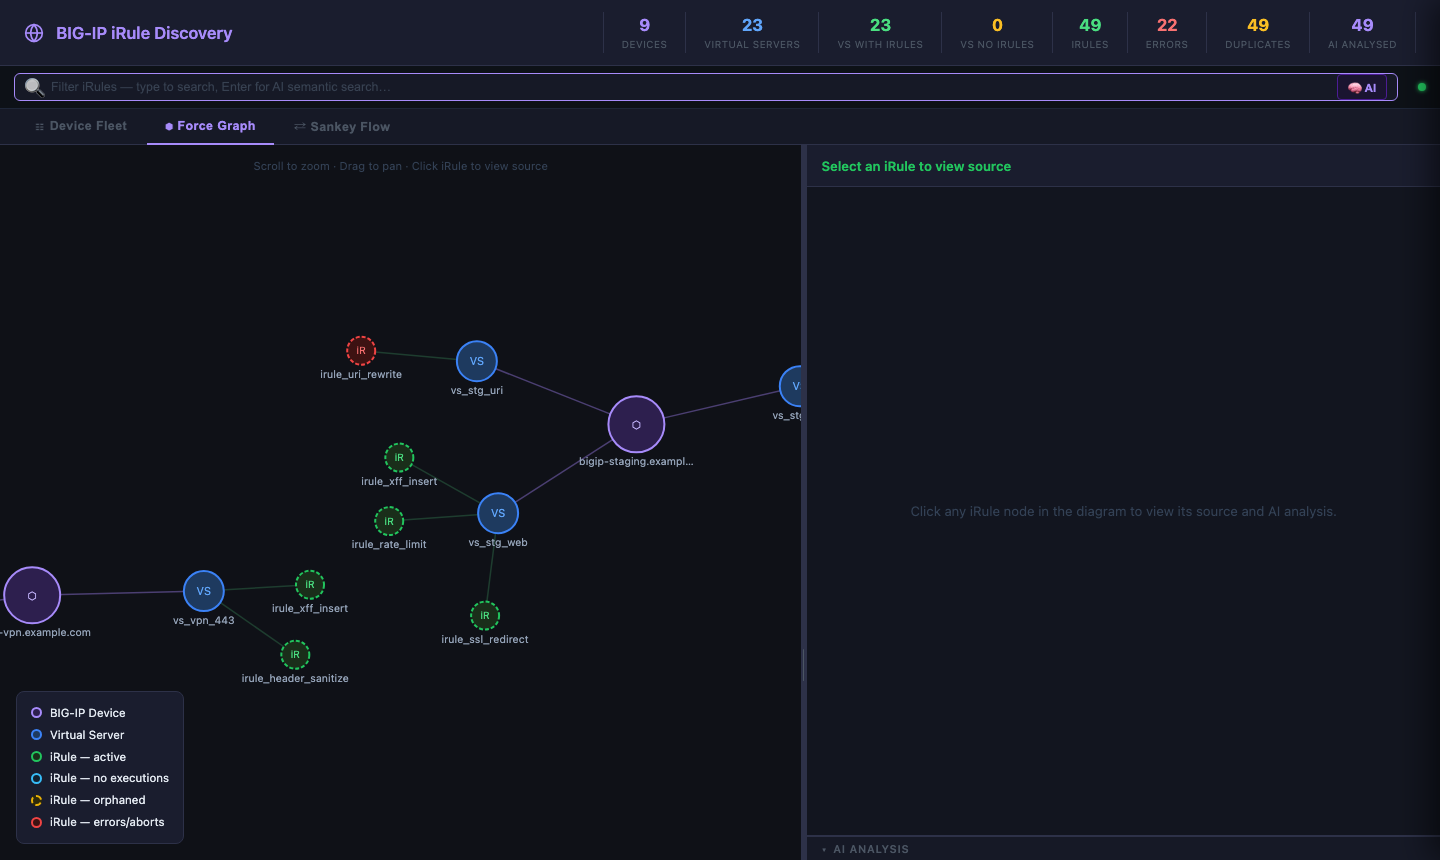
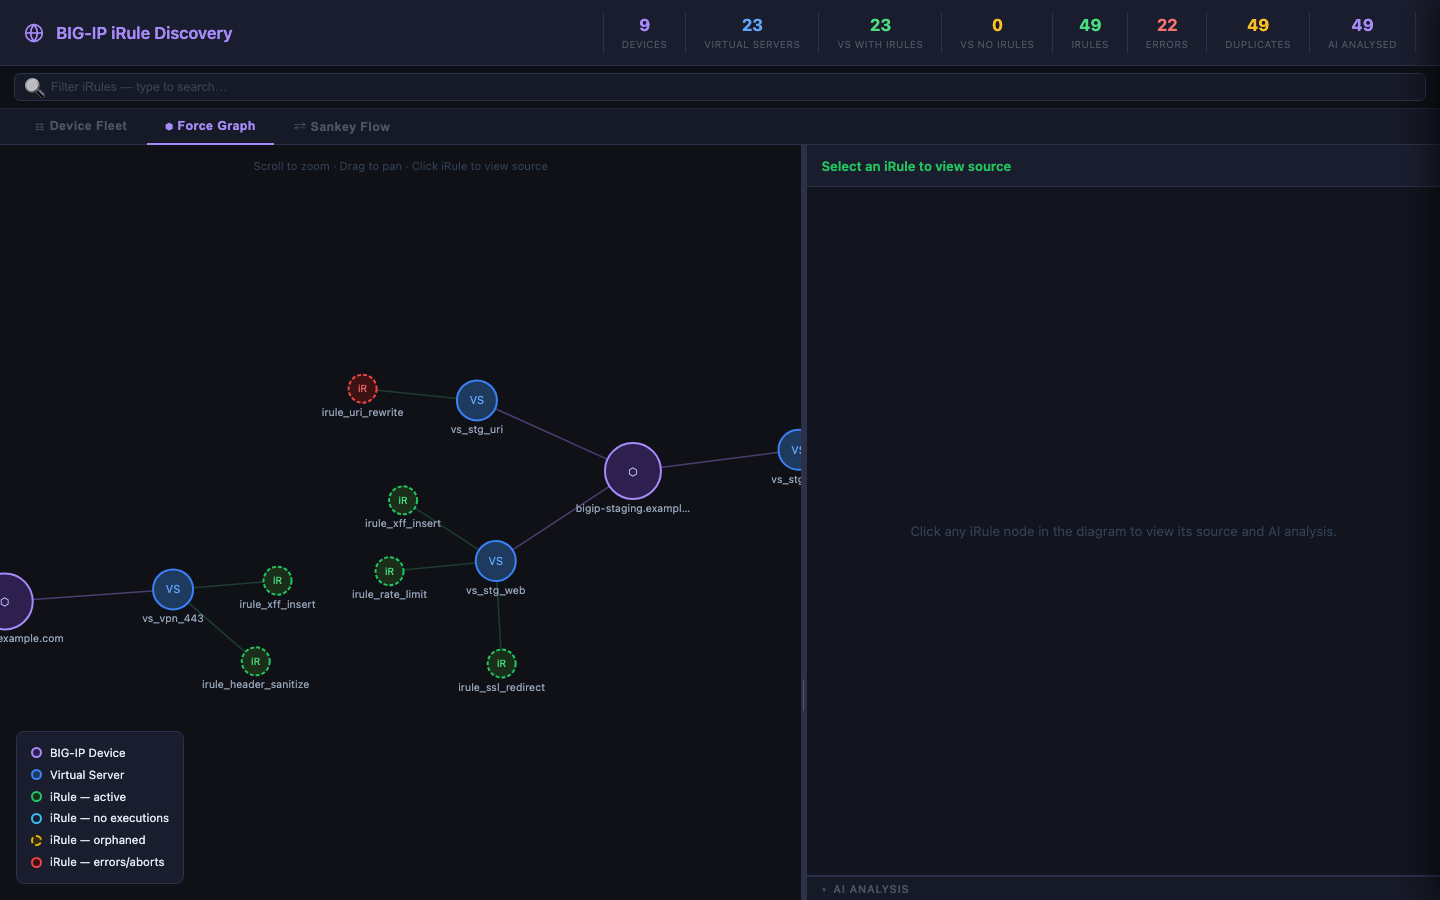
feat: multi-provider AI, SNow demo seeding, README + screenshots refresh
AI analysis
- Add Anthropic and OpenAI backends (_analyze_with_anthropic, _analyze_with_openai)
- Add _XC_ANALYSIS_PROMPT (plain-question for XC RAG) separate from
  _ANALYSIS_PROMPT (structured markdown for Anthropic/OpenAI)
- Reduce _XC_AI_RATE_LIMIT 20->5s; CLI --rate-limit default 20->5
- Add --ai-provider / --ai-model / --ai-key CLI flags
- Wire AI re-analysis into --rebuild-html path

Viewer
- Remove Ollama/RAG UI elements (AI button, Ollama dot, semantic search)
- Search bar retains fast text/stem filter across all three views
- AI label shows 'AI Assistant' when provider/model are None (demo)

Demo generator
- Add SERVICENOW_REFS with synthetic ticket data matching iRule comments
- Seed servicenow_refs table before build_html (SNow flyout works OOTB)
- Clear ai_cache on each demo run so real-provider results don't pollute
- provider/model set to None in demo ai_analysis entries

Bug fixes
- Replace all datetime.utcnow() with timezone-aware equivalent (Py 3.12)

README + screenshots
- All 10 docs/screenshot_*.png regenerated from current viewer build
- No AI button, no Ollama dot, AI label shows 'AI Assistant' (demo)
- README reflects multi-provider AI, simplified install, SNow demo seeding
- Local RAG section expanded with three real CVE query examples

diff --git a/take_screenshots.py b/take_screenshots.py
@@ -1,0 +1,160 @@
+#!/usr/bin/env python3
+"""
+Regenerate docs/screenshot_*.png from the current demo viewer.
+Requires: pip install playwright && python3 -m playwright install chromium
+
+Run from repo root:
+    python3 generate_demo.py
+    python3 take_screenshots.py
+"""
+import asyncio
+from pathlib import Path
+
+from playwright.async_api import async_playwright
+
+VIEWER = (Path(__file__).parent / "irule_output" / "irule_viewer.html").resolve().as_uri()
+DOCS   = Path(__file__).parent / "docs"
+DOCS.mkdir(exist_ok=True)
+
+W, H = 1440, 900
+
+
+async def shot(page, name: str):
+    path = str(DOCS / f"screenshot_{name}.png")
+    await page.screenshot(path=path, full_page=False)
+    print(f"  saved → {path}")
+
+
+async def js_click(page, selector: str):
+    """Click via JS so viewport position doesn't matter (works on SVG nodes)."""
+    await page.evaluate(f"""
+        (() => {{
+            const el = document.querySelector('{selector}');
+            if (el) el.dispatchEvent(new MouseEvent('click', {{bubbles: true, cancelable: true}}));
+        }})()
+    """)
+
+
+async def main():
+    async with async_playwright() as pw:
+        browser = await pw.chromium.launch(headless=True)
+        ctx     = await browser.new_context(viewport={"width": W, "height": H})
+        page    = await ctx.new_page()
+
+        print(f"Loading viewer …")
+        await page.goto(VIEWER, wait_until="networkidle")
+        await asyncio.sleep(2)
+
+        # ── 1. Device Fleet ───────────────────────────────────────────────────
+        print("1. fleet")
+        await shot(page, "fleet")
+
+        # ── 2. Fleet filtered ─────────────────────────────────────────────────
+        print("2. fleet_filtered")
+        search = page.locator("#search-input")
+        await search.fill("rate")
+        await asyncio.sleep(0.8)
+        await shot(page, "fleet_filtered")
+        await search.fill("")
+        await asyncio.sleep(0.4)
+
+        # ── 3. Force Graph ────────────────────────────────────────────────────
+        print("3. force_graph  (waiting 5s for sim to settle)")
+        await page.locator("#tab-force").click()
+        await asyncio.sleep(5)   # let D3 sim cool down
+        await shot(page, "force_graph")
+
+        # ── 4. Force Graph — device selected (JS click, bypasses viewport) ────
+        print("4. force_selected")
+        await js_click(page, ".node.device circle")
+        await asyncio.sleep(0.8)
+        await shot(page, "force_selected")
+        # Deselect by clicking the SVG background
+        await js_click(page, "svg#svg")
+        await asyncio.sleep(0.3)
+
+        # ── 5. Force Graph — text filter ──────────────────────────────────────
+        print("5. force_filtered")
+        await search.fill("jwt")
+        await asyncio.sleep(0.8)
+        await shot(page, "force_filtered")
+        await search.fill("")
+        await asyncio.sleep(0.4)
+
+        # ── 6. iRule source + AI analysis ─────────────────────────────────────
+        print("6. ai_analysis")
+        # JS-click every iRule node until the AI divider appears with real content
+        irule_count = await page.locator(".node.irule circle").count()
+        for i in range(irule_count):
+            await page.evaluate(f"""
+                (() => {{
+                    const nodes = document.querySelectorAll('.node.irule circle');
+                    if (nodes[{i}]) nodes[{i}].dispatchEvent(
+                        new MouseEvent('click', {{bubbles: true, cancelable: true}}));
+                }})()
+            """)
+            await asyncio.sleep(0.5)
+
+            ai_div = page.locator("#ai-divider")
+            if not await ai_div.is_visible():
+                continue
+
+            label = await page.locator("#ai-label").inner_text()
+            if "No analysis" in label:
+                continue
+
+            # Ensure AI pane is expanded and tall enough to show content
+            await page.evaluate("""
+                const d = document.getElementById('ai-divider');
+                const p = document.getElementById('ai-pane');
+                if (d && d.classList.contains('collapsed')) d.click();
+                if (p) { p.style.flex = 'none'; p.style.height = '310px'; p.style.display = 'block'; }
+            """)
+            await asyncio.sleep(0.3)
+            await shot(page, "ai_analysis")
+            print(f"     label: {label}")
+            break
+
+        # ── 7. ServiceNow flyout ──────────────────────────────────────────────
+        print("7. snow_cve / snow_panel")
+        snow_div = page.locator("#snow-section-divider")
+        found_snow = False
+        for i in range(irule_count):
+            await page.evaluate(f"""
+                (() => {{
+                    const nodes = document.querySelectorAll('.node.irule circle');
+                    if (nodes[{i}]) nodes[{i}].dispatchEvent(
+                        new MouseEvent('click', {{bubbles: true, cancelable: true}}));
+                }})()
+            """)
+            await asyncio.sleep(0.5)
+            if await snow_div.is_visible():
+                await snow_div.click()
+                await asyncio.sleep(0.7)
+                await shot(page, "snow_cve")
+                await shot(page, "snow_panel")
+                await page.locator("#snow-flyout-close").click()
+                await asyncio.sleep(0.3)
+                found_snow = True
+                break
+        if not found_snow:
+            print("  (no SNow iRule visible in force graph — skipping)")
+
+        # ── 8. Sankey ─────────────────────────────────────────────────────────
+        print("8. sankey")
+        await page.locator("#tab-sankey").click()
+        await asyncio.sleep(2)
+        await shot(page, "sankey")
+
+        # ── 9. Sankey filtered ────────────────────────────────────────────────
+        print("9. sankey_filtered")
+        await search.fill("geo")
+        await asyncio.sleep(0.8)
+        await shot(page, "sankey_filtered")
+        await search.fill("")
+
+        await browser.close()
+        print("\nDone — all screenshots saved to docs/")
+
+
+asyncio.run(main())

diff --git a/retake_ai_screenshot.py b/retake_ai_screenshot.py
@@ -1,0 +1,83 @@
+#!/usr/bin/env python3
+"""
+Retake only the ai_analysis screenshot with cache disabled.
+Run from repo root: python3 retake_ai_screenshot.py
+"""
+import asyncio
+from pathlib import Path
+
+from playwright.async_api import async_playwright
+
+VIEWER = (Path(__file__).parent / "irule_output" / "irule_viewer.html").resolve().as_uri()
+DOCS   = Path(__file__).parent / "docs"
+
+
+async def main():
+    async with async_playwright() as pw:
+        browser = await pw.chromium.launch(headless=True, args=["--disable-application-cache", "--disable-cache"])
+        # Fresh user-data-dir every run so nothing is cached
+        ctx = await browser.new_context(
+            viewport={"width": 1440, "height": 900},
+            bypass_csp=True,
+        )
+        await ctx.route("**/*", lambda route: route.continue_())
+
+        page = await ctx.new_page()
+
+        # Force reload with cache disabled
+        await page.set_extra_http_headers({"Cache-Control": "no-cache, no-store"})
+
+        print(f"Loading viewer (cache disabled) …")
+        await page.goto(VIEWER, wait_until="networkidle")
+        await asyncio.sleep(2)
+
+        # Verify we have the new UI (no AI button)
+        ai_btn_visible = await page.locator("#search-ai-btn").is_visible() if await page.locator("#search-ai-btn").count() > 0 else False
+        print(f"  Old AI button present: {ai_btn_visible}  (should be False)")
+
+        # Switch to Force Graph
+        await page.click("#tab-force")
+        await asyncio.sleep(4)
+
+        # Walk iRule nodes for one with real AI content
+        irule_nodes = page.locator(".node.irule circle")
+        n = await irule_nodes.count()
+        print(f"  Found {n} iRule nodes")
+
+        for i in range(n):
+            await irule_nodes.nth(i).click()
+            await asyncio.sleep(0.5)
+
+            ai_div = page.locator("#ai-divider")
+            if not await ai_div.is_visible():
+                continue
+
+            cls = await ai_div.get_attribute("class") or ""
+            if "collapsed" in cls:
+                await ai_div.click()
+                await asyncio.sleep(0.3)
+
+            label_text = await page.locator("#ai-label").inner_text()
+            if "No analysis" in label_text:
+                continue
+
+            # Expand AI pane to 320px so content is visible
+            await page.evaluate("""
+                const pane = document.getElementById('ai-pane');
+                pane.style.flex = 'none';
+                pane.style.height = '320px';
+                pane.style.display = 'block';
+            """)
+            await asyncio.sleep(0.3)
+
+            path = str(DOCS / "screenshot_ai_analysis.png")
+            await page.screenshot(path=path, full_page=False)
+            rule = await page.locator("#rule-name-display").inner_text()
+            print(f"  Saved → {path}")
+            print(f"  iRule: {rule}  |  AI: {label_text}")
+            break
+
+        await browser.close()
+
+
+asyncio.run(main())

diff --git a/generate_demo.py b/generate_demo.py
@@ -784,6 +784,11 @@ out.mkdir(exist_ok=True)
 conn = open_db(out)
 init_db(conn)
 
+# ── Clear ai_cache so real-provider results don't pollute the demo viewer ─────
+conn.execute("DELETE FROM ai_cache")
+conn.commit()
+print("  ai_cache cleared")
+
 # ── Seed ServiceNow references into the DB ────────────────────────────────────
 # One row per unique content_hash × ticket. INSERT OR IGNORE is safe on re-run.
 now_iso = datetime.datetime.now(datetime.timezone.utc).isoformat().replace("+00:00", "Z")

diff --git a/serve_demo.py b/serve_demo.py
@@ -1,0 +1,15 @@
+#!/usr/bin/env python3
+"""
+Serve irule_output/ on http://localhost:8765 for screenshot capture.
+Run: python3 serve_demo.py
+Then open: http://localhost:8765/irule_viewer.html
+Stop with Ctrl-C.
+"""
+import http.server
+import os
+
+os.chdir(os.path.join(os.path.dirname(__file__), "irule_output"))
+server = http.server.HTTPServer(("127.0.0.1", 8765), http.server.SimpleHTTPRequestHandler)
+print("Serving http://localhost:8765/irule_viewer.html")
+print("Stop with Ctrl-C")
+server.serve_forever()
